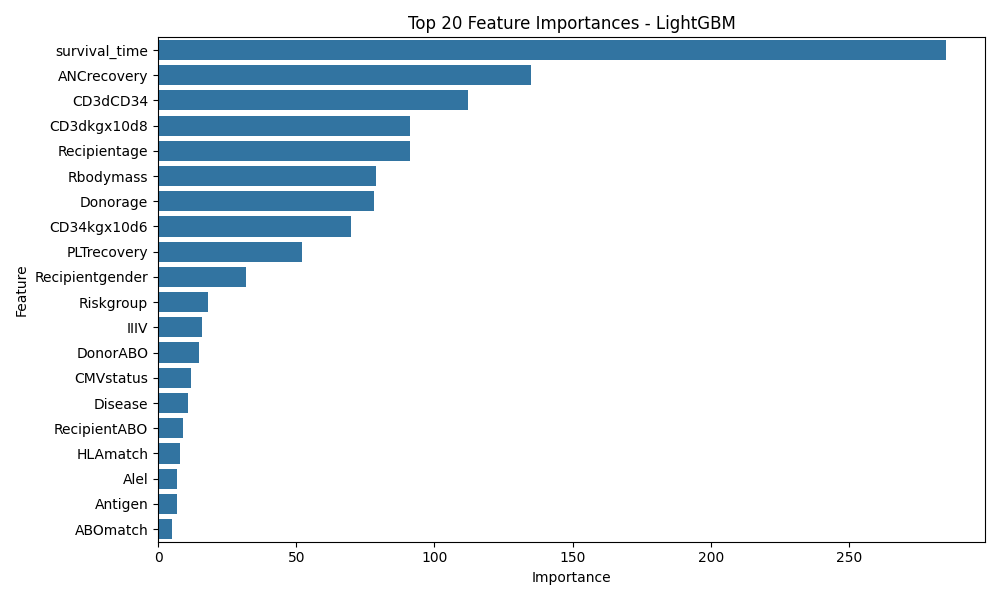
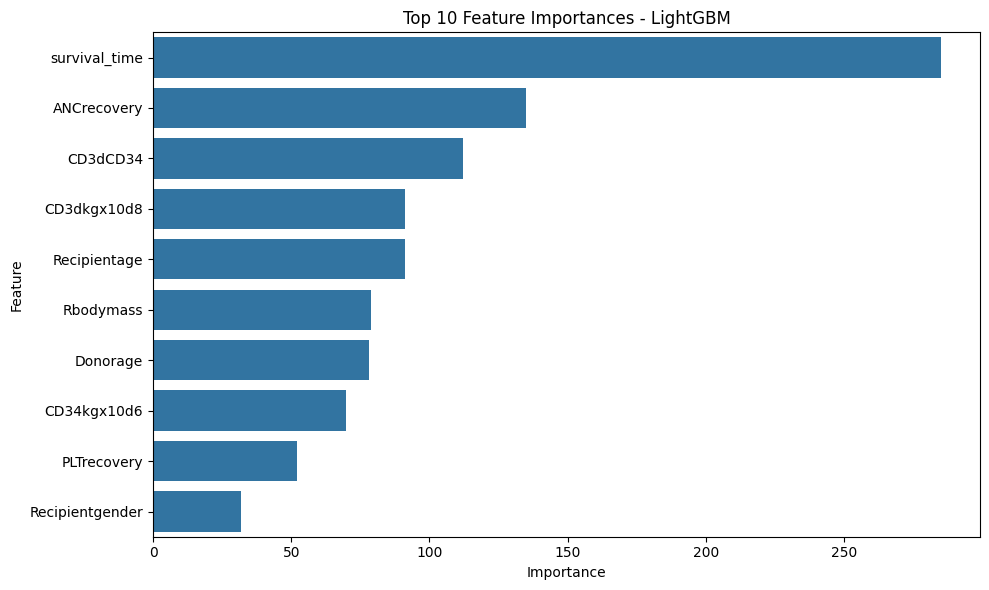
update models

Changed region(s): [[0.0, 0.0, 1.0, 0.9763]]

diff --git a/Back_end/machine_learning/predicting-bmt-/src/model_training.py b/Back_end/machine_learning/predicting-bmt-/src/model_training.py
@@ -22,25 +22,32 @@ def load_data(relative_path: str) -> pd.DataFrame:
 
 def preprocess_data(df: pd.DataFrame) -> pd.DataFrame:
     """
-    Ensure all categorical variables are one-hot encoded and remove highly correlated features.
+    Preprocess the data by:
+    1. One-hot encoding all categorical variables.
+    2. Removing highly correlated features (threshold > 0.9).
     """
+    df = df.copy()
+    
     # One-hot encode categorical variables
+    print("One-hot encoding categorical variables...")
     df = pd.get_dummies(df, drop_first=True)
     
-    # Remove highly correlated features (threshold > 0.9)
+    # Remove highly correlated features
+    print("Calculating correlation matrix for feature removal...")
     corr_matrix = df.corr().abs()
     upper_tri = corr_matrix.where(np.triu(np.ones(corr_matrix.shape), k=1).astype(bool))
     to_drop = [column for column in upper_tri.columns if any(upper_tri[column] > 0.9)]
-    
     if to_drop:
         print(f"Removing {len(to_drop)} highly correlated features: {to_drop}")
         df.drop(columns=to_drop, inplace=True)
-
+    else:
+        print("No highly correlated features found to remove.")
+        
     return df
 
-def plot_feature_importance(model, X, model_name, output_dir, top_n=20):
+def plot_feature_importance(model, X, model_name, output_dir, top_n=10):
     """
-    Plot and save feature importance for tree-based models.
+    Plot and save the top N feature importances for tree-based models.
     """
     if hasattr(model, "feature_importances_"):
         importances = model.feature_importances_
@@ -48,28 +55,30 @@ def plot_feature_importance(model, X, model_name, output_dir, top_n=20):
         sorted_idx = np.argsort(importances)[::-1]
 
         plt.figure(figsize=(10, 6))
-        sns.barplot(x=importances[sorted_idx][:top_n], y=[feature_names[i] for i in sorted_idx[:top_n]])
+        sns.barplot(x=importances[sorted_idx][:top_n], 
+                    y=[feature_names[i] for i in sorted_idx[:top_n]])
         plt.title(f"Top {top_n} Feature Importances - {model_name}")
         plt.xlabel("Importance")
         plt.ylabel("Feature")
         plt.tight_layout()
 
-        # Save plot
         os.makedirs(output_dir, exist_ok=True)
-        plt.savefig(os.path.join(output_dir, f"{model_name}_feature_importance.png"))
+        filepath = os.path.join(output_dir, f"{model_name}_feature_importance.png")
+        plt.savefig(filepath, bbox_inches="tight")
         plt.close()
-        print(f"Feature importance plot saved for {model_name}")
+        print(f"Feature importance plot saved for {model_name} to {filepath}")
+    else:
+        print(f"Model {model_name} does not support feature_importances_.")
 
 def train_models(X_train, y_train, X_val, y_val):
     """
     Train multiple models and evaluate them on training and validation sets.
     """
     models = {
-    "RandomForest": RandomForestClassifier(random_state=42),
-    "XGBoost": XGBClassifier(eval_metric="logloss", random_state=42),
-    "LightGBM": LGBMClassifier(random_state=42, min_child_samples=10, verbose=-1)
-}
-
+        "RandomForest": RandomForestClassifier(random_state=42),
+        "XGBoost": XGBClassifier(eval_metric="logloss", random_state=42),
+        "LightGBM": LGBMClassifier(random_state=42, min_child_samples=10, verbose=-1)
+    }
 
     trained_models = {}
     performance_results = {}
@@ -78,7 +87,7 @@ def train_models(X_train, y_train, X_val, y_val):
         print(f"\nTraining {name} on {X_train.shape[1]} features...")
         model.fit(X_train, y_train)
 
-        # Predictions
+        # Predictions on training and validation sets
         y_train_pred = model.predict(X_train)
         y_val_pred = model.predict(X_val)
 
@@ -86,10 +95,8 @@ def train_models(X_train, y_train, X_val, y_val):
         y_train_prob = model.predict_proba(X_train)[:, 1] if hasattr(model, "predict_proba") else None
         y_val_prob = model.predict_proba(X_val)[:, 1] if hasattr(model, "predict_proba") else None
 
-        # Metrics
         train_acc = accuracy_score(y_train, y_train_pred)
         val_acc = accuracy_score(y_val, y_val_pred)
-
         train_auc = roc_auc_score(y_train, y_train_prob) if y_train_prob is not None else 0.0
         val_auc = roc_auc_score(y_val, y_val_prob) if y_val_prob is not None else 0.0
 
@@ -97,7 +104,6 @@ def train_models(X_train, y_train, X_val, y_val):
         print(f"{name} Validation Accuracy: {val_acc:.4f}, ROC-AUC: {val_auc:.4f}")
         print(f"Validation Classification Report:\n{classification_report(y_val, y_val_pred)}")
 
-        # Store results
         performance_results[name] = {
             "Train Accuracy": train_acc, "Train ROC-AUC": train_auc,
             "Validation Accuracy": val_acc, "Validation ROC-AUC": val_auc
@@ -113,7 +119,6 @@ def save_models(models: dict, output_dir: str):
     """
     os.makedirs(output_dir, exist_ok=True)
     timestamp = datetime.now().strftime("%Y%m%d_%H%M")
-
     for name, model in models.items():
         filename = os.path.join(output_dir, f"{name}_model_{timestamp}.pkl")
         joblib.dump(model, filename)
@@ -126,7 +131,7 @@ def save_performance(performance_results: dict, output_dir: str):
     os.makedirs(output_dir, exist_ok=True)
     performance_df = pd.DataFrame(performance_results).T
     performance_path = os.path.join(output_dir, "validation_performance.csv")
-    performance_df.to_csv(performance_path)
+    performance_df.to_csv(performance_path, index=True)
     print(f"📊 Validation performance saved to {performance_path}")
 
 def main():
@@ -139,21 +144,23 @@ def main():
     if "survival_status" not in df.columns:
         raise ValueError("❌ Target column 'survival_status' not found in training data.")
 
-    # Preprocess data
+    # Preprocess data (one-hot encode categorical features & remove correlated ones)
     df = preprocess_data(df)
+    print("Data shape after preprocessing:", df.shape)
 
     # Separate features and target
     X = df.drop(columns=["survival_status"])
     y = df["survival_status"]
+    print("Training data has", X.shape[1], "features.")
 
-    # Split into train (80%) and validation (20%)
+    # Split data into train (80%) and validation (20%) sets
     X_train, X_val, y_train, y_val = train_test_split(X, y, test_size=0.2, random_state=42, stratify=y)
     print(f"Training set shape: {X_train.shape}, Validation set shape: {X_val.shape}")
 
     # Train models
     trained_models, performance_results = train_models(X_train, y_train, X_val, y_val)
 
-    # Save models with timestamps
+    # Save models
     script_dir = os.path.dirname(os.path.abspath(__file__))
     models_dir = os.path.join(script_dir, "..", "models")
     save_models(trained_models, models_dir)
@@ -165,7 +172,6 @@ def main():
     # Save feature importance plots
     plots_dir = os.path.join(script_dir, "..", "feature_importance_plots")
     os.makedirs(plots_dir, exist_ok=True)
-
     for name, model in trained_models.items():
         plot_feature_importance(model, X_train, name, plots_dir)
 

diff --git a/Back_end/main.py b/Back_end/main.py
@@ -17,7 +17,7 @@ app.add_middleware(
 )
 
 # Load trained model
-model = joblib.load("XGBoost_model_20250313_0043.pkl")
+model = joblib.load("XGBoost_model_20250318_1312.pkl")
 
 # Define Input Schema (Must Match Form.js Exactly)
 class PatientData(BaseModel):
